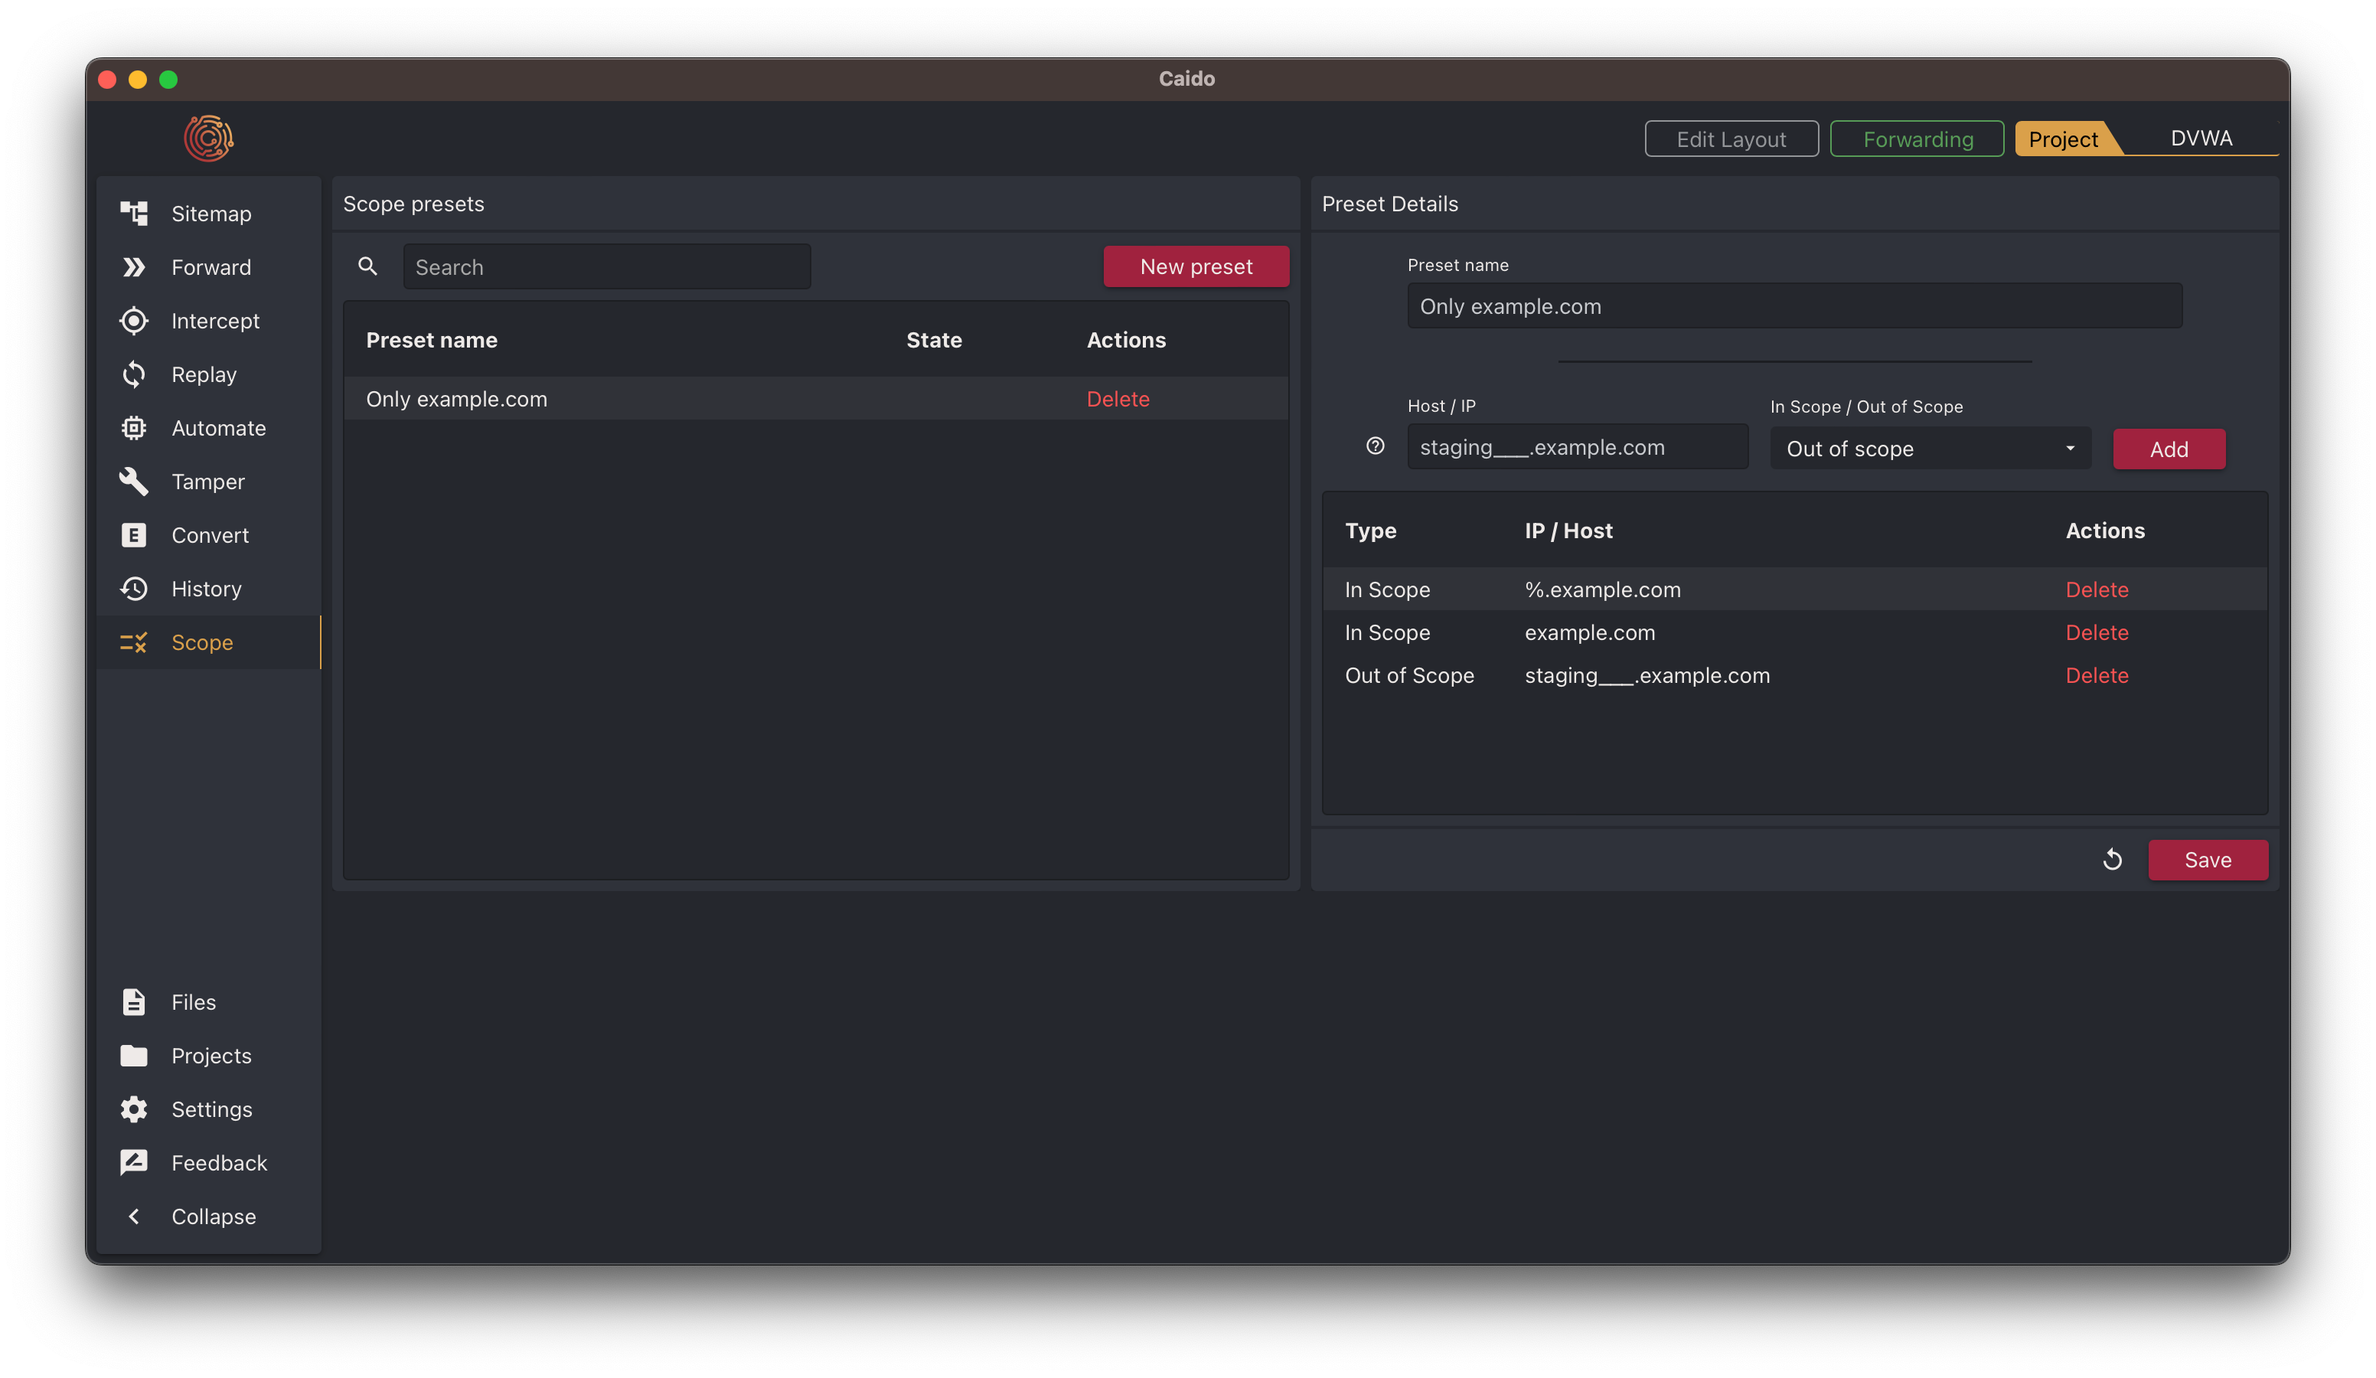
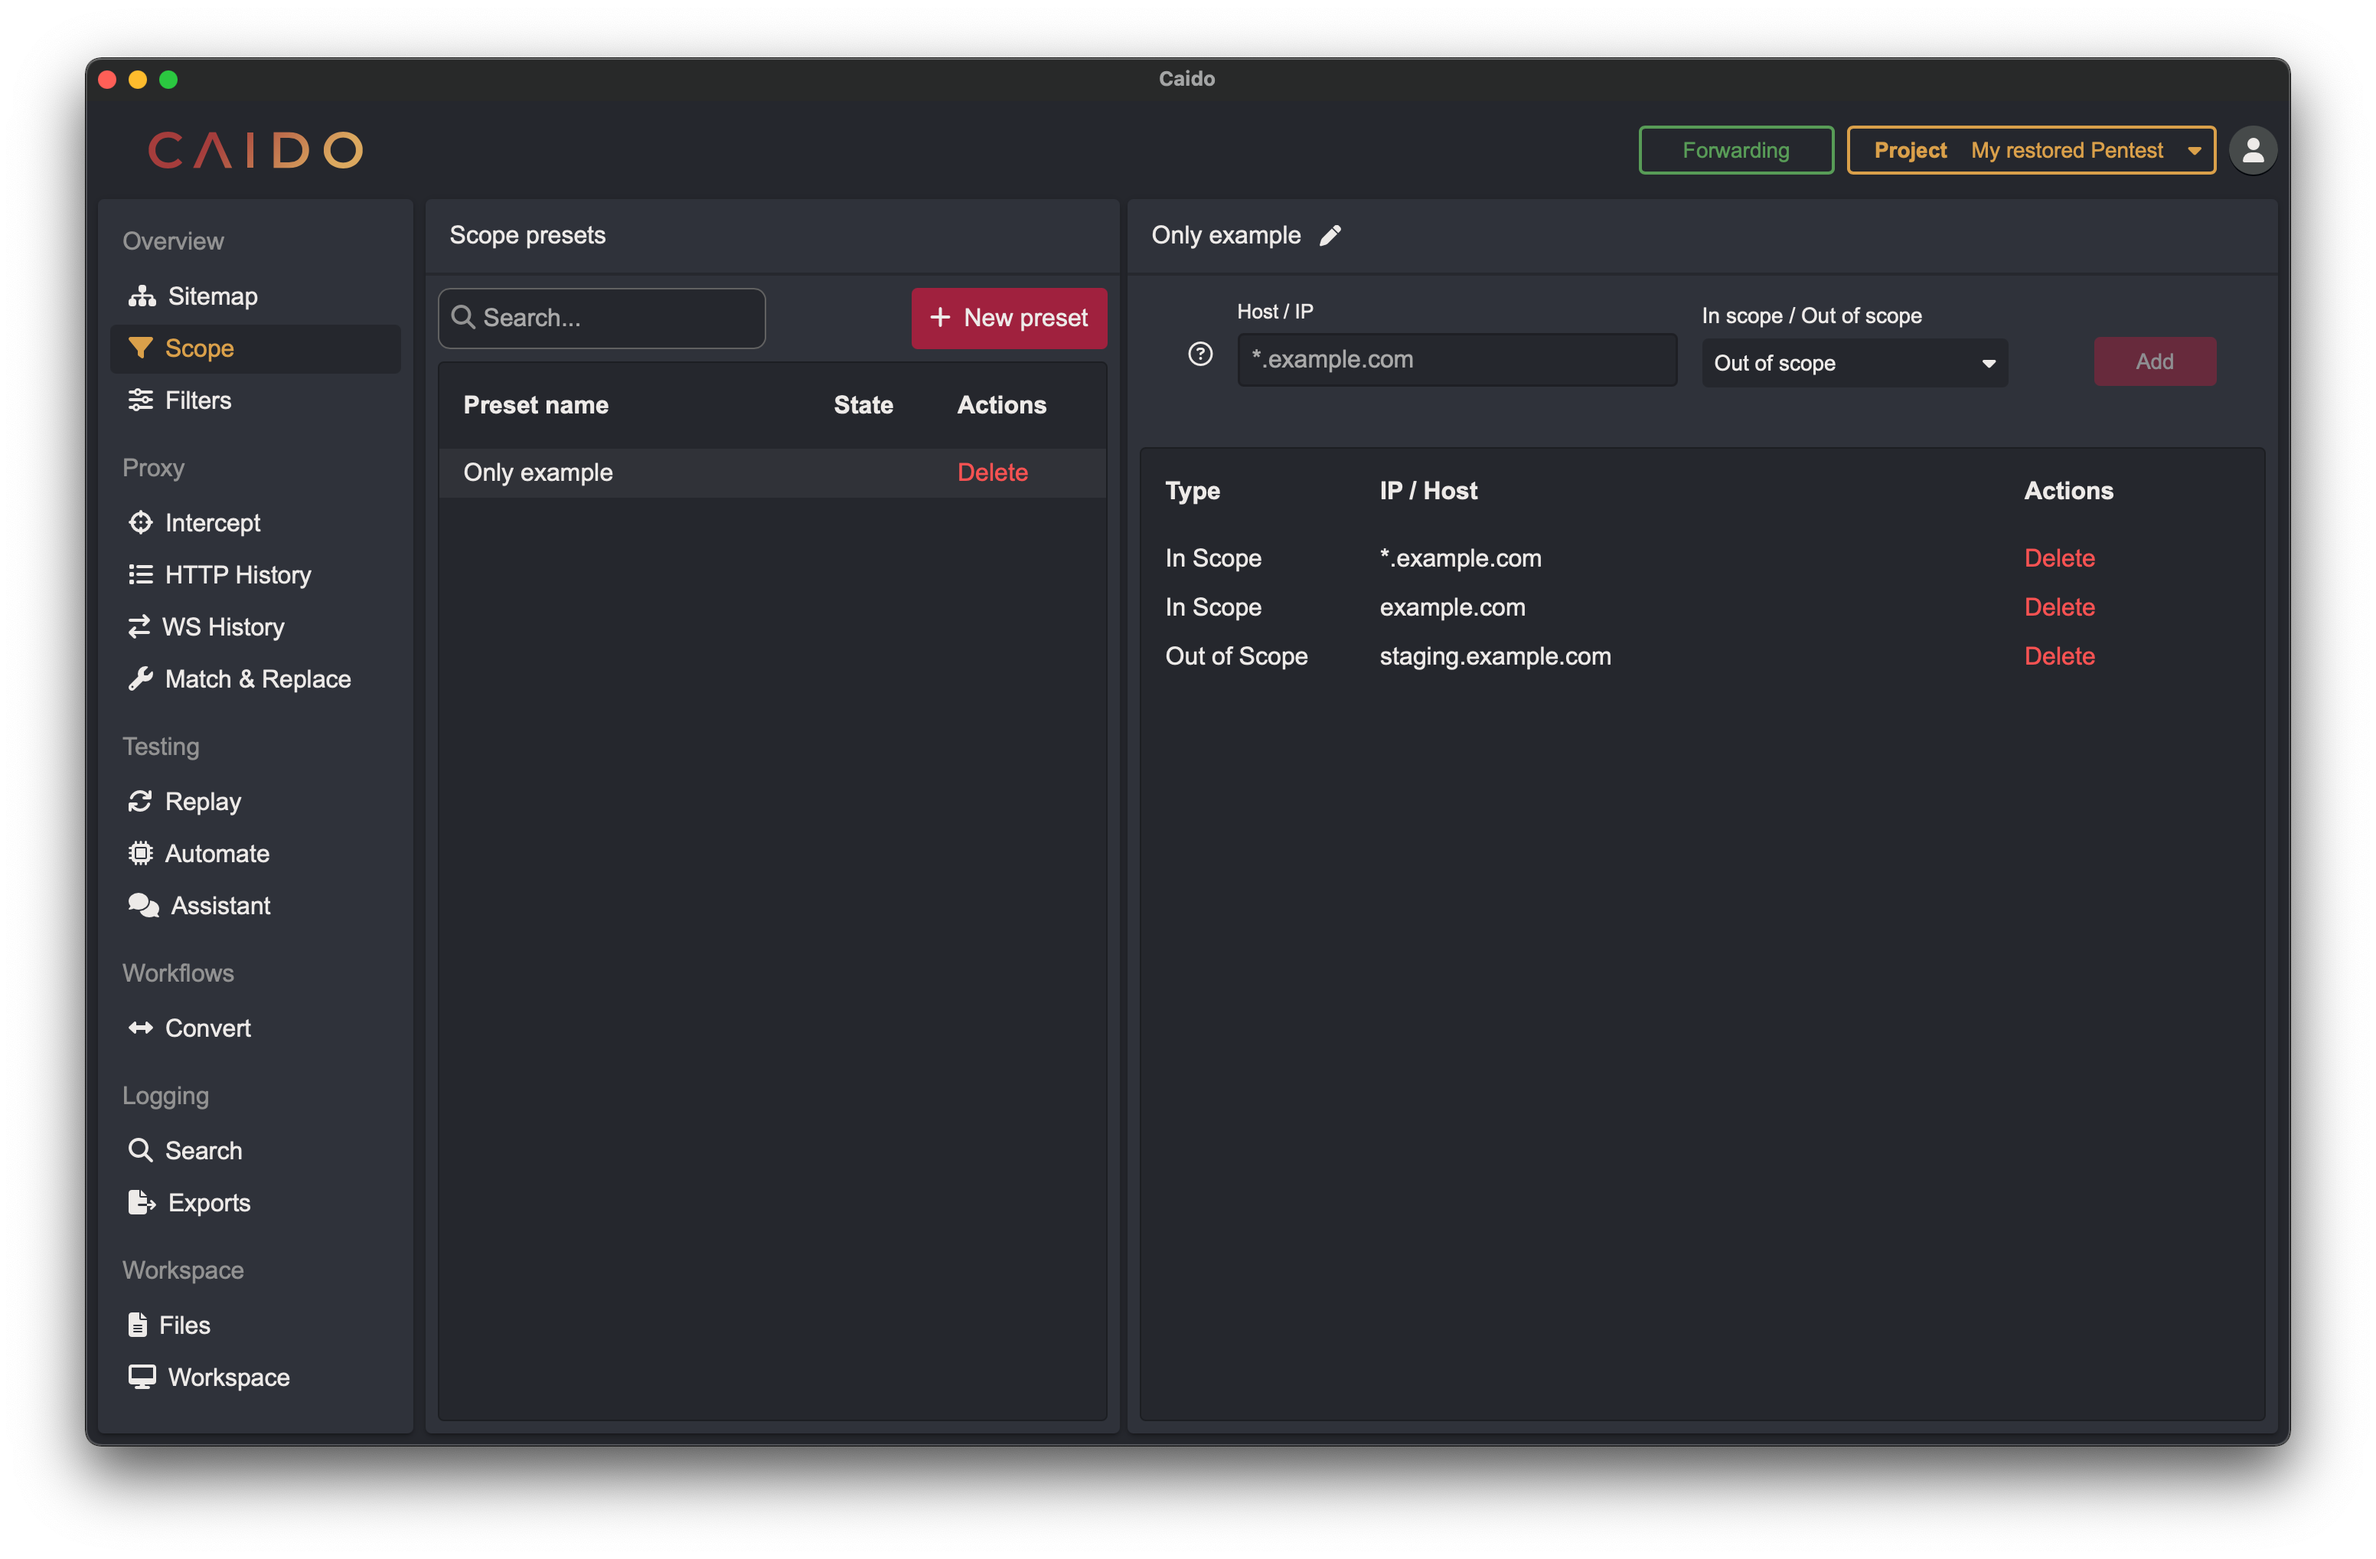
Update scope

diff --git a/src/features/overview/scope.md b/src/features/overview/scope.md
@@ -1,23 +1,25 @@
 # Scope
 
-The Scope feature allows you to filter requests throughout the app by creating presets of in-scope and out-of-scope hosts. Currently, scoping is available for the Sitemap, Search and HTTP History pages.
+Scopes allows you to filter requests throughout the app by creating presets of in-scope and out-of-scope hosts. Scoping is available for most of the Caido tools.
 
-## Creating a scope preset
+## Creating a scope
 
-The Scope feature is split into two panes, the left pane contains the list of scope presets, and the right pane contains the details for a scope preset. To create a new scope preset, follow these steps:
+You can create as many scopes as you want. Scopes are specific to a project.
+Scopes are composed of **scope rules**:
 
-1. In the left pane, click on the "New Preset" button.
-2. In the right pane, enter a name for the new preset in the "Preset Name" field.
-3. Write the name of the host you want to add to the scope preset. You can use the wildcard characters '%' and '\_' to create your presets.
-4. Choose the type of the entry (in-scope or out-of-scope) and click "Add".
-5. Click the "Save" button to create the preset.
+- They can **only** contain lowercase letters (`a-z`), numbers (`0-9`) and some symbols (`-`, `_`, `*`).
+- They can include wildcards (`*`) to support multiple subdomains (`*.example.com`) and TLD (`*example*`).
+- They currently only support domains, **not paths**.
+- They can be `In Scope` acting as an allow list or `Out of Scope` acting as a deny list.
+
+> **NOTE**: Adding or removing a rule can be **slow** if you have a big project since Caido will re-index your data on each change
 
 <img alt="Scope creation" src="/_images/scope_creation.png" no-shadow/>
 
-## Using scope presets
+## Using a scope
 
-Once you have created a scope preset, you can apply it to the HTTP history and Search pages by selecting it from the "Scope Preset" dropdown located in the top left corner of each page.
+Once you have created a scope preset, you can apply it to a given tool by selecting it from the `Scope Preset` dropdown located in the **top left corner** of each page that support it.
 
-When you select a scope preset from the dropdown, the table on the page will be filtered based on the hosts defined in the selected scope preset.
+In Caido, scopes are **NOT** global. Each tool and _(eventually)_ each view can have a different scope. You can switch between scopes very fast.
 
-<img alt="Selecting scope" src="/_images/history_selecting_scope.png" no-shadow/>
+<img width="400" alt="Selecting scope" src="/_images/scope_selection.png" center/>
